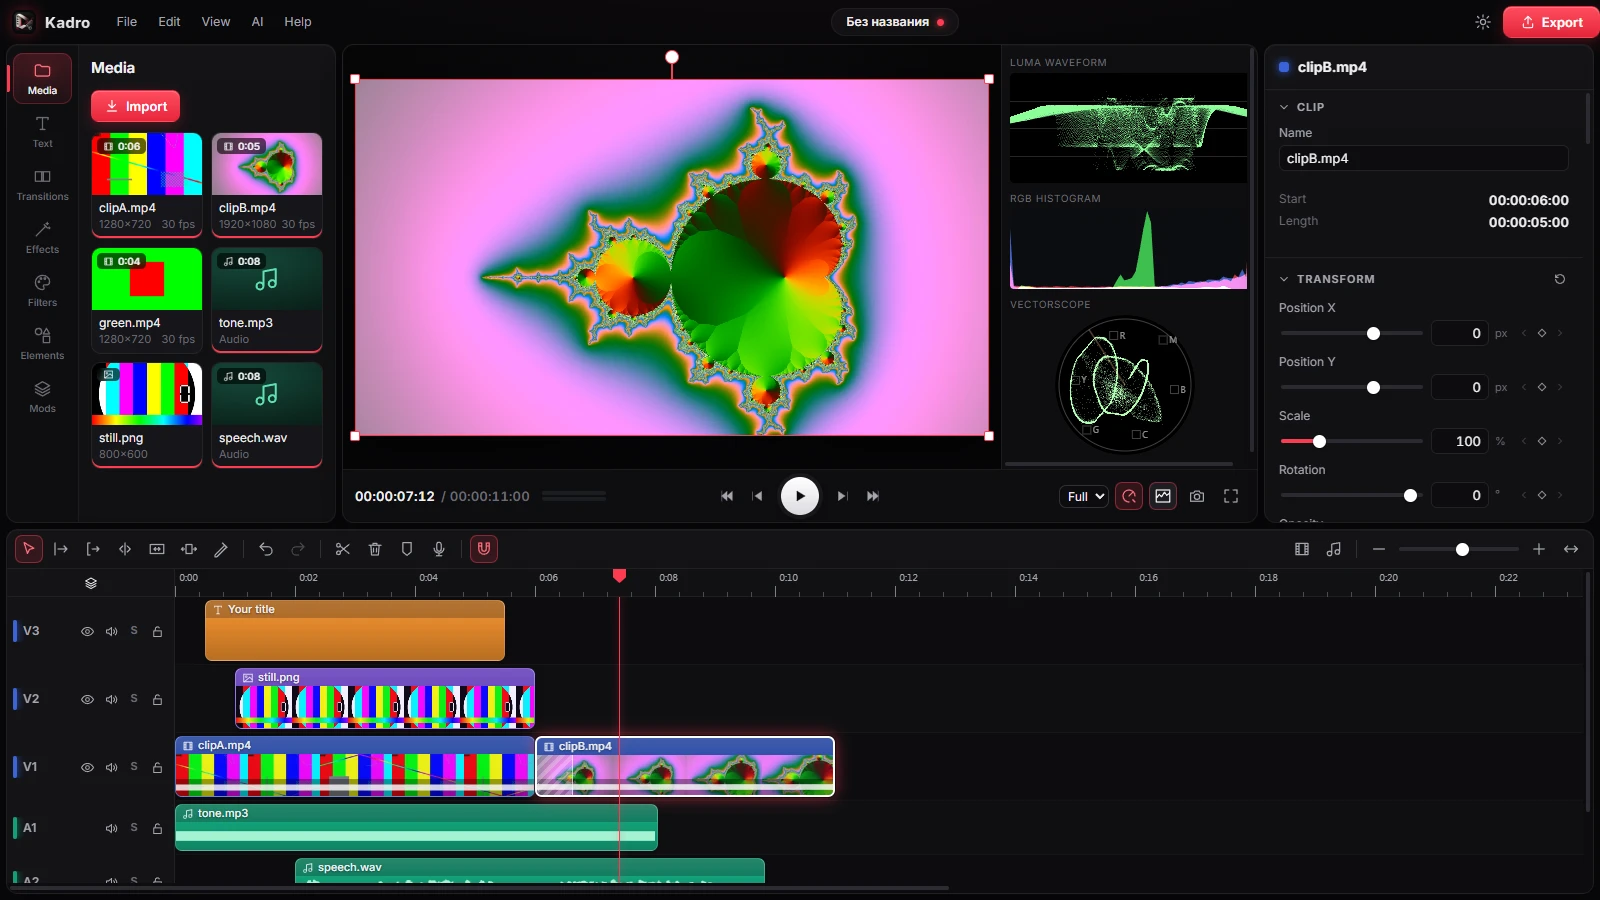
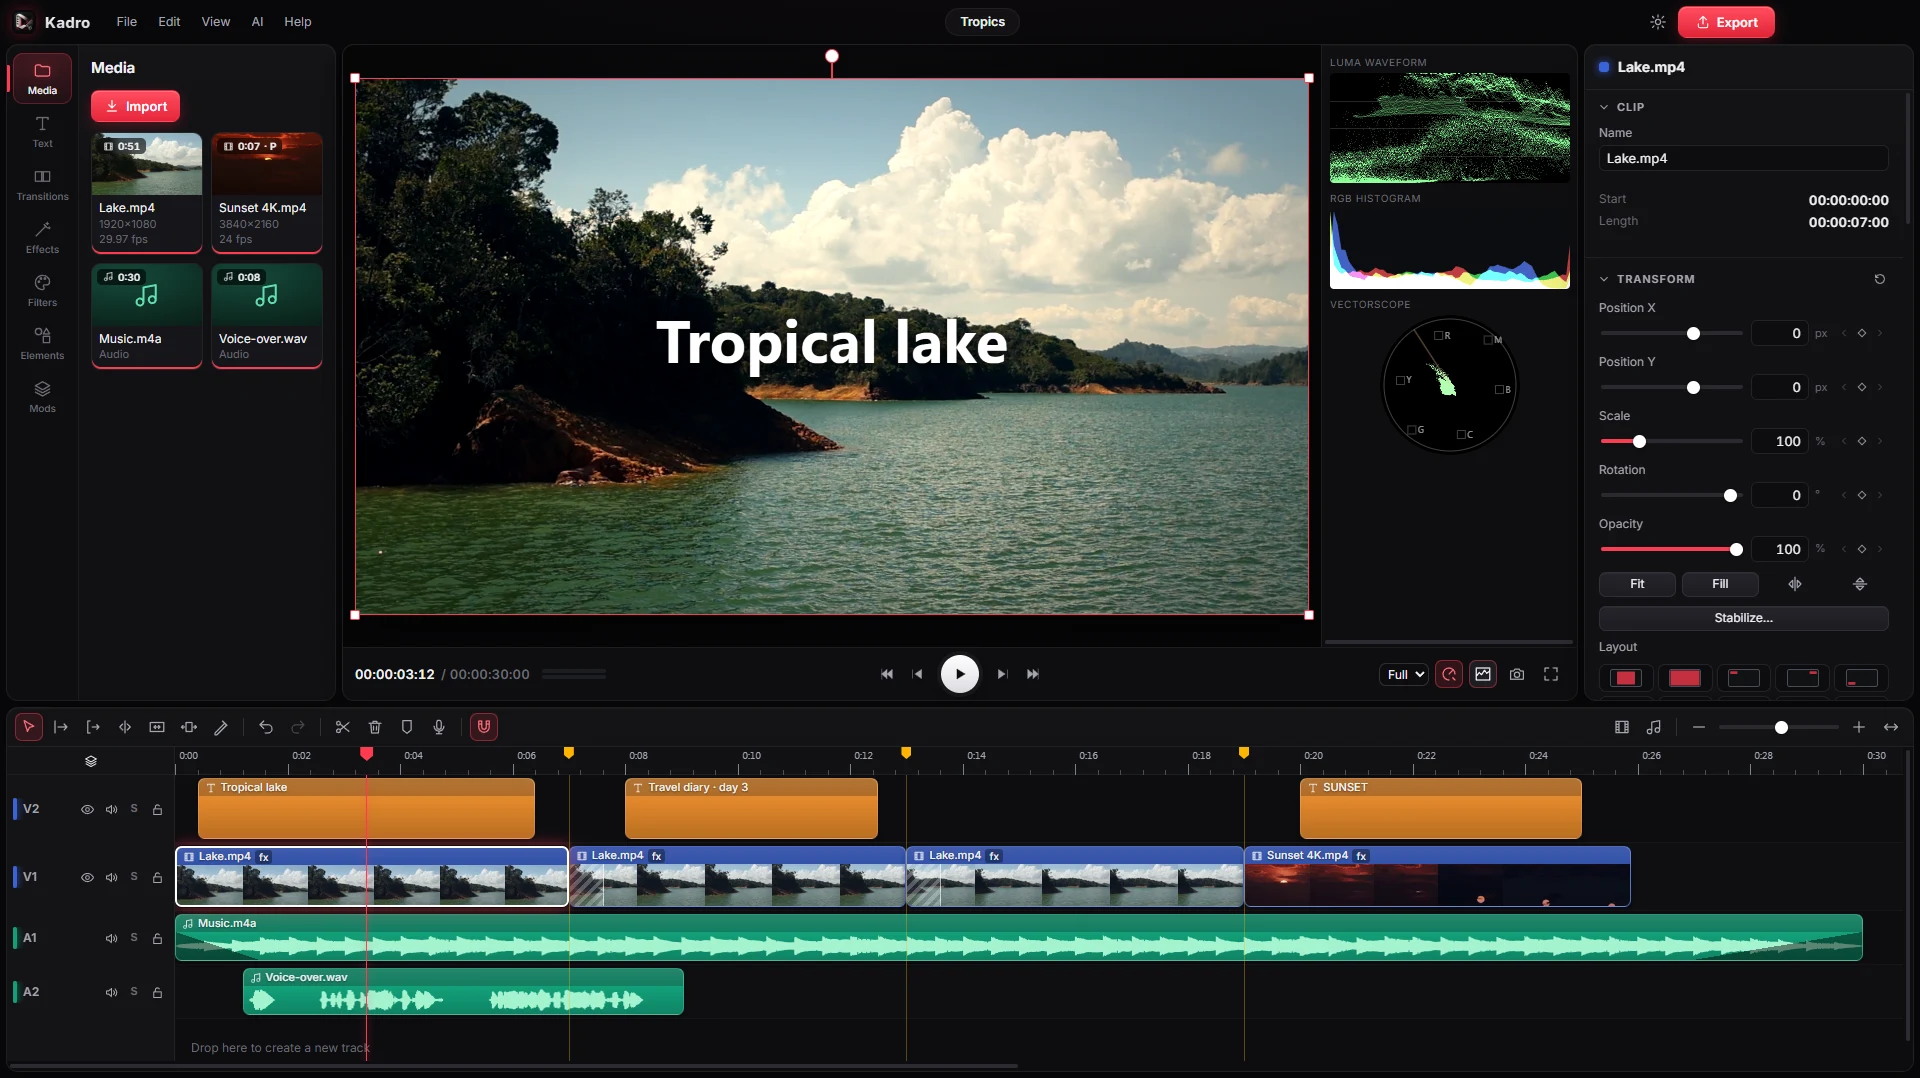
Use real footage for site screenshots and fix media card layout
- Website: main screenshot and a new 4K sunset shot (RU/EN) built from
  a demo edit of real footage; screenshots switch with the language
- Donation cards get spacing between name and status
- Media bin: resolution and frame rate wrap instead of overlapping

diff --git a/website/index.html b/website/index.html
@@ -54,7 +54,7 @@
           </div>
           <p class="meta" data-i18n="cta.meta">Windows 10 / 11 · 64-бит · около 160 МБ · без регистрации</p>
           <figure class="shot">
-            <img data-shot src="assets/screenshot-ru.webp" alt="Kadro" width="1600" height="900" />
+            <img data-shot="screenshot" src="assets/screenshot-ru.webp" alt="Kadro" width="1920" height="1080" />
           </figure>
         </div>
       </section>
@@ -117,6 +117,10 @@
               <p data-i18n="f6.d">Аппаратное кодирование NVENC, Quick Sync и AMF. MP4, WebM, ProRes, GIF — до 4K.</p>
             </article>
           </div>
+          <figure class="shot shot-wide">
+            <img data-shot="sunset" src="assets/sunset-ru.webp" alt="Kadro" width="1920" height="1080" loading="lazy" />
+            <figcaption data-i18n="shot2.caption">4K-видео монтируется плавно: облегчённые копии создаются сами, а видеоскопы показывают цвет кадра.</figcaption>
+          </figure>
         </div>
       </section>
 

diff --git a/website/main.js b/website/main.js
@@ -34,6 +34,7 @@
     'f5.d': 'Shader effects and transitions, stabilisation, picture-in-picture layouts and your own GLSL mods.',
     'f6.t': 'Fast export',
     'f6.d': 'NVENC, Quick Sync and AMF hardware encoding. MP4, WebM, ProRes, GIF — up to 4K.',
+    'shot2.caption': '4K footage edits smoothly: lightweight copies are made automatically, and video scopes show the colour of every frame.',
     'free.title': 'Free means free',
     'free.p1':
       'Kadro sells no licences and hides nothing behind a paid edition. No watermark on export, no trial period, no account. Everyone gets the same program.',
@@ -100,7 +101,7 @@
     for (const v of document.querySelectorAll('[data-version]')) v.textContent = site.version;
     document.documentElement.lang = lang;
     document.getElementById('lang').textContent = lang === 'en' ? 'RU' : 'EN';
-    document.querySelector('[data-shot]').src = `assets/screenshot-${lang}.webp`;
+    for (const img of document.querySelectorAll('[data-shot]')) img.src = `assets/${img.dataset.shot}-${lang}.webp`;
     renderLinks(lang);
     try {
       localStorage.setItem('kadro.lang', lang);

diff --git a/website/styles.css b/website/styles.css
@@ -246,6 +246,15 @@ h1 {
     0 40px 120px rgba(0, 0, 0, 0.7),
     0 0 120px rgba(255, 40, 60, 0.12);
 }
+.shot-wide {
+  margin-top: 40px;
+}
+.shot figcaption {
+  padding: 14px 8px 6px;
+  color: var(--dim);
+  font-size: 15px;
+  text-align: center;
+}
 .shot img {
   display: block;
   width: 100%;
@@ -403,6 +412,7 @@ h2 {
 }
 .donate-card {
   display: flex;
+  gap: 12px;
   justify-content: space-between;
   align-items: center;
   padding: 22px 24px;

diff --git a/src/renderer/styles.css b/src/renderer/styles.css
@@ -598,7 +598,12 @@ button {
   font-size: 11px;
   color: var(--text-mute);
   display: flex;
+  flex-wrap: wrap;
+  column-gap: 6px;
   justify-content: space-between;
+}
+.media-meta > span {
+  white-space: nowrap;
 }
 .media-badge {
   position: absolute;
